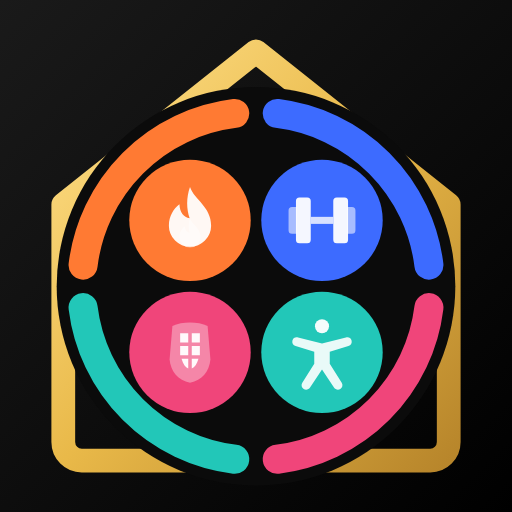
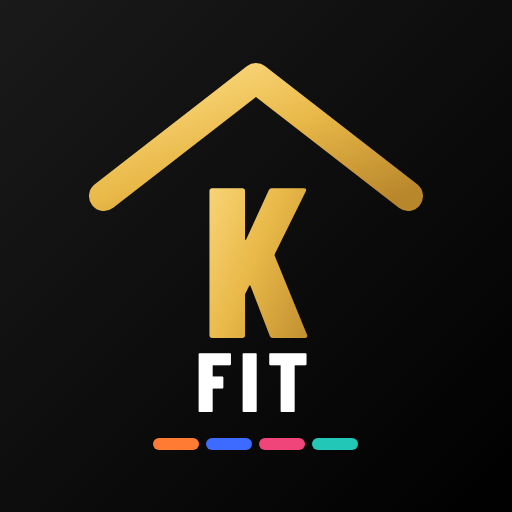
La app pasa a llamarse Kasa Fit: nombre en la web, Android y ficha de Play; icono nuevo con tejado dorado, K, FIT y los colores de los apartados
Claude-Session: https://claude.ai/code/session_018smsm9G7dLMHXY7sah87VT

diff --git a/public/privacidad.html b/public/privacidad.html
@@ -32,10 +32,10 @@
 
 <!-- ============================ CATALÀ ============================ -->
 <section id="ca" lang="ca">
-<h1>Política de privacitat d’«Exercicis a casa»</h1>
+<h1>Política de privacitat de «Kasa Fit»</h1>
 <p class="muted">Última actualització: 8 de novembre de 2026</p>
 
-<p>«Exercicis a casa» (també «Ejercicios en casa» i «Home Workouts») és una app gratuïta per fer rutines d’escalfament, peses, abdominals i estiraments a casa. La publica un particular, sense finalitat comercial. Aquesta política explica quines dades fa servir l’app i on es guarden.</p>
+<p>«Kasa Fit» és una app gratuïta per fer rutines d’escalfament, peses, abdominals i estiraments a casa. La publica un particular, sense finalitat comercial. Aquesta política explica quines dades fa servir l’app i on es guarden.</p>
 
 <h2>En resum</h2>
 <ul>
@@ -75,7 +75,7 @@
 <h2>Com esborrar les teves dades</h2>
 <ul>
   <li>Des de l’app: a Historial pots esborrar tot l’historial.</li>
-  <li>Per esborrar-ho tot: desinstal·la l’app o, a Ajustos d’Android → Aplicacions → «Exercicis a casa» → Emmagatzematge, toca «Esborrar dades».</li>
+  <li>Per esborrar-ho tot: desinstal·la l’app o, a Ajustos d’Android → Aplicacions → «Kasa Fit» → Emmagatzematge, toca «Esborrar dades».</li>
   <li>Com que no tenim cap còpia de les teves dades, no cal que ens demanis que les esborrem.</li>
 </ul>
 
@@ -91,10 +91,10 @@
 
 <!-- ============================ CASTELLANO ============================ -->
 <section id="es" lang="es">
-<h1>Política de privacidad de «Ejercicios en casa»</h1>
+<h1>Política de privacidad de «Kasa Fit»</h1>
 <p class="muted">Última actualización: 8 de noviembre de 2026</p>
 
-<p>«Ejercicios en casa» (también «Exercicis a casa» y «Home Workouts») es una app gratuita para hacer rutinas de calentamiento, pesas, abdominales y estiramientos en casa. La publica un particular, sin finalidad comercial. Esta política explica qué datos usa la app y dónde se guardan.</p>
+<p>«Kasa Fit» es una app gratuita para hacer rutinas de calentamiento, pesas, abdominales y estiramientos en casa. La publica un particular, sin finalidad comercial. Esta política explica qué datos usa la app y dónde se guardan.</p>
 
 <h2>En resumen</h2>
 <ul>
@@ -134,7 +134,7 @@
 <h2>Cómo borrar tus datos</h2>
 <ul>
   <li>Desde la app: en Historial puedes borrar todo el historial.</li>
-  <li>Para borrarlo todo: desinstala la app o, en Ajustes de Android → Aplicaciones → «Ejercicios en casa» → Almacenamiento, pulsa «Borrar datos».</li>
+  <li>Para borrarlo todo: desinstala la app o, en Ajustes de Android → Aplicaciones → «Kasa Fit» → Almacenamiento, pulsa «Borrar datos».</li>
   <li>Como no tenemos ninguna copia de tus datos, no hace falta que nos pidas que los borremos.</li>
 </ul>
 
@@ -150,10 +150,10 @@
 
 <!-- ============================ ENGLISH ============================ -->
 <section id="en" lang="en">
-<h1>Privacy policy for “Home Workouts”</h1>
+<h1>Privacy policy for “Kasa Fit”</h1>
 <p class="muted">Last updated: 8 November 2026</p>
 
-<p>“Home Workouts” (also “Exercicis a casa” and “Ejercicios en casa”) is a free app for warm-up, weights, abs and stretching routines at home. It is published by an individual, with no commercial purpose. This policy explains what data the app uses and where it is stored.</p>
+<p>“Kasa Fit” is a free app for warm-up, weights, abs and stretching routines at home. It is published by an individual, with no commercial purpose. This policy explains what data the app uses and where it is stored.</p>
 
 <h2>In short</h2>
 <ul>
@@ -193,7 +193,7 @@
 <h2>How to delete your data</h2>
 <ul>
   <li>In the app: in History you can delete your whole history.</li>
-  <li>To delete everything: uninstall the app or, in Android Settings → Apps → “Home Workouts” → Storage, tap “Clear data”.</li>
+  <li>To delete everything: uninstall the app or, in Android Settings → Apps → “Kasa Fit” → Storage, tap “Clear data”.</li>
   <li>Since we hold no copy of your data, there is no need to ask us to delete it.</li>
 </ul>
 

diff --git a/src/i18n/ui.ts b/src/i18n/ui.ts
@@ -403,7 +403,7 @@ const ROWS: Row[] = [
   ['Copia de seguridad pendiente', 'Còpia de seguretat pendent', 'Backup due'],
   ['Copia guardada', 'Còpia desada', 'Backup saved'],
   ['Guardar en Drive', 'Desa a Drive', 'Save to Drive'],
-  ['El archivo no es una copia de Ejercicios en casa.', 'El fitxer no és una còpia d’Ejercicios en casa.', 'This file isn’t an Ejercicios en casa backup.'],
+  ['El archivo no es una copia de Kasa Fit.', 'El fitxer no és una còpia de Kasa Fit.', 'This file isn’t a Kasa Fit backup.'],
 
   // ── Historial ──
   ['Aún no hay entrenamientos. Cuando termines el primero aparecerá aquí.', 'Encara no hi ha entrenaments. Quan acabis el primer, apareixerà aquí.', 'No workouts yet. When you finish your first one, it will show up here.'],
@@ -701,7 +701,7 @@ const ROWS: Row[] = [
   ['Ahorras 2 meses', 'T’estalvies 2 mesos', 'Save 2 months'],
   ['Código de acceso', 'Codi d’accés', 'Access code'],
   ['Este código no es válido.', 'Aquest codi no és vàlid.', 'This code isn’t valid.'],
-  ['Ejercicios en casa', 'Exercicis a casa', 'Home workouts'],
+  ['Kasa Fit', 'Kasa Fit', 'Kasa Fit'],
   ['Pruébala gratis {d} días. Después, elige cómo seguir.', 'Prova-la gratis {d} dies. Després, tria com continuar.', 'Try it free for {d} days. Then choose how to continue.'],
   ['Elige un plan para empezar a entrenar.', 'Tria un pla per començar a entrenar.', 'Choose a plan to start training.'],
   ['Más de 200 ejercicios con muñeco animado', 'Més de 200 exercicis amb ninot animat', 'Over 200 exercises with an animated figure'],

diff --git a/src/services/Backup.ts b/src/services/Backup.ts
@@ -21,7 +21,7 @@ export async function saveBackupFile(text: string): Promise<'shared' | 'download
     // App Android: se escribe el archivo y se abre el menú de compartir del sistema (Drive, correo, Archivos…)
     try {
       const { uri } = await Filesystem.writeFile({ path: name, data: text, directory: Directory.Cache, encoding: Encoding.UTF8 });
-      await Share.share({ title: 'Copia de Ejercicios en casa', files: [uri] });
+      await Share.share({ title: 'Copia de Kasa Fit', files: [uri] });
       return 'shared';
     } catch {
       return 'cancelled';
@@ -31,7 +31,7 @@ export async function saveBackupFile(text: string): Promise<'shared' | 'download
   const nav = navigator as Navigator & { canShare?: (d: ShareData) => boolean };
   if (nav.canShare?.({ files: [file] })) {
     try {
-      await nav.share({ files: [file], title: 'Copia de Ejercicios en casa' });
+      await nav.share({ files: [file], title: 'Copia de Kasa Fit' });
       return 'shared';
     } catch (e) {
       if ((e as DOMException)?.name === 'AbortError') return 'cancelled';

diff --git a/src/domain/Store.ts b/src/domain/Store.ts
@@ -251,11 +251,11 @@ export class Store {
     try {
       raw = JSON.parse(text);
     } catch {
-      throw new Error('El archivo no es una copia de Ejercicios en casa.');
+      throw new Error('El archivo no es una copia de Kasa Fit.');
     }
     const o = raw as Record<string, unknown>;
     if (!o || typeof o !== 'object' || (o.app !== BACKUP_APP && !Array.isArray(o.routines))) {
-      throw new Error('El archivo no es una copia de Ejercicios en casa.');
+      throw new Error('El archivo no es una copia de Kasa Fit.');
     }
     const data = Store.migrate(o);
     if (typeof o.lastBackup === 'string') data.lastBackup = o.lastBackup;

diff --git a/vite.config.ts b/vite.config.ts
@@ -16,8 +16,8 @@ export default defineConfig(({ mode }) => ({
       registerType: 'prompt',
       includeAssets: ['icon.svg'],
       manifest: {
-        name: 'Ejercicios en casa',
-        short_name: 'Ejercicios',
+        name: 'Kasa Fit: Ejercicios en casa',
+        short_name: 'Kasa Fit',
         description: 'Rutinas de calentamiento, pesas, abdominales y estiramientos en casa.',
         lang: 'es',
         start_url: './',

diff --git a/index.html b/index.html
@@ -8,7 +8,7 @@
     <meta name="description" content="Rutinas de calentamiento, pesas, abdominales y estiramientos en casa." />
     <link rel="icon" href="icon.svg" type="image/svg+xml" />
     <link rel="apple-touch-icon" href="icon-192.png" />
-    <title>Ejercicios en casa</title>
+    <title>Kasa Fit</title>
   </head>
   <body>
     <div id="app"></div>

diff --git a/capacitor.config.ts b/capacitor.config.ts
@@ -4,7 +4,7 @@ import type { CapacitorConfig } from '@capacitor/cli';
 // android/app/src/main/res/values*/strings.xml.
 const config: CapacitorConfig = {
   appId: 'cat.ejercicisacasa.app',
-  appName: 'Exercicis a casa',
+  appName: 'Kasa Fit',
   webDir: 'dist-android',
   backgroundColor: '#0A0D12',
   android: { allowMixedContent: false },

diff --git a/tools/play/ficha-google-play.md b/tools/play/ficha-google-play.md
@@ -12,7 +12,7 @@ Idioma principal: **catalán (ca)**; traducciones: **castellano (es-ES)** e **in
 ## Català
 
 **Nom de l’app** (màx. 30)
-Exercicis a casa
+Kasa Fit: Exercicis a casa
 
 **Descripció breu** (màx. 80)
 Entrena a casa, accés en segons i sense registres. Senzill i sense anuncis.
@@ -47,7 +47,7 @@ En català, castellà i anglès.
 ## Castellano
 
 **Nombre de la app** (máx. 30)
-Ejercicios en casa
+Kasa Fit: Ejercicios en casa
 
 **Descripción breve** (máx. 80)
 Entrena en casa, acceso en segundos y sin registros. Sencillo y sin anuncios.
@@ -82,7 +82,7 @@ En catalán, castellano e inglés.
 ## English
 
 **App name** (max. 30)
-Home Workouts
+Kasa Fit: Home Workout
 
 **Short description** (max. 80)
 Train at home, access in seconds and no sign-up. Simple and ad-free.

diff --git a/README.md b/README.md
@@ -1,4 +1,4 @@
-# Ejercicios en casa
+# Kasa Fit
 
 App para el móvil (Android) para hacer en casa rutinas de **calentamiento, pesas, abdominales y estiramientos**,
 con un maniquí 3D que enseña cada ejercicio.
